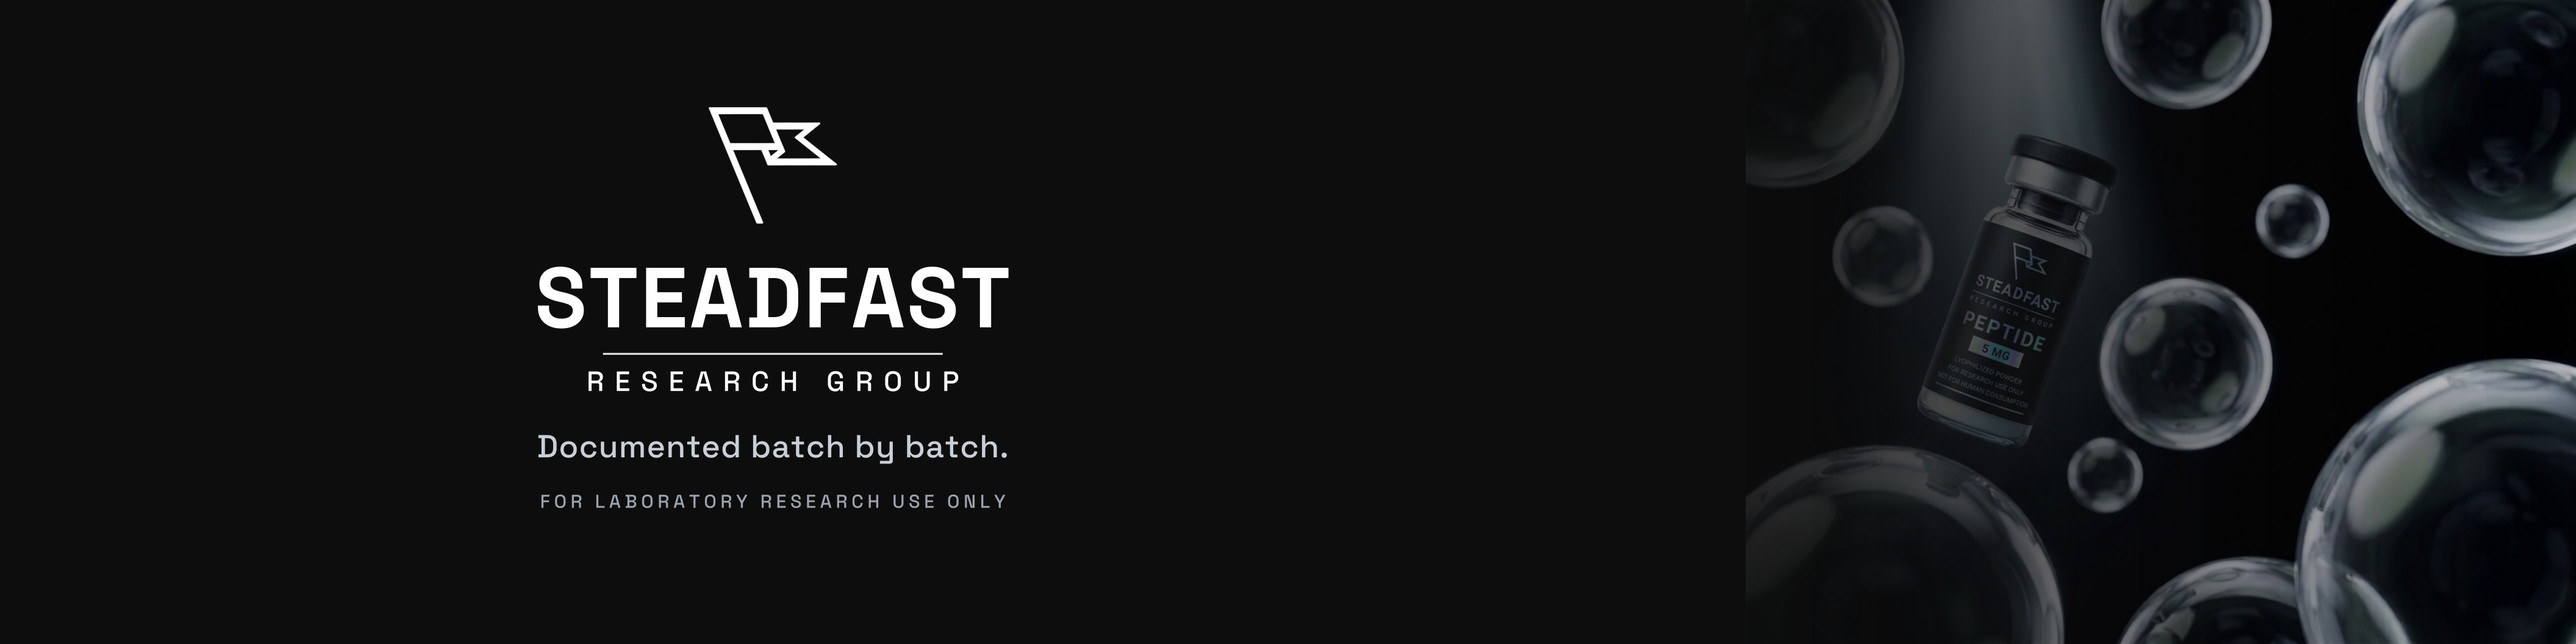
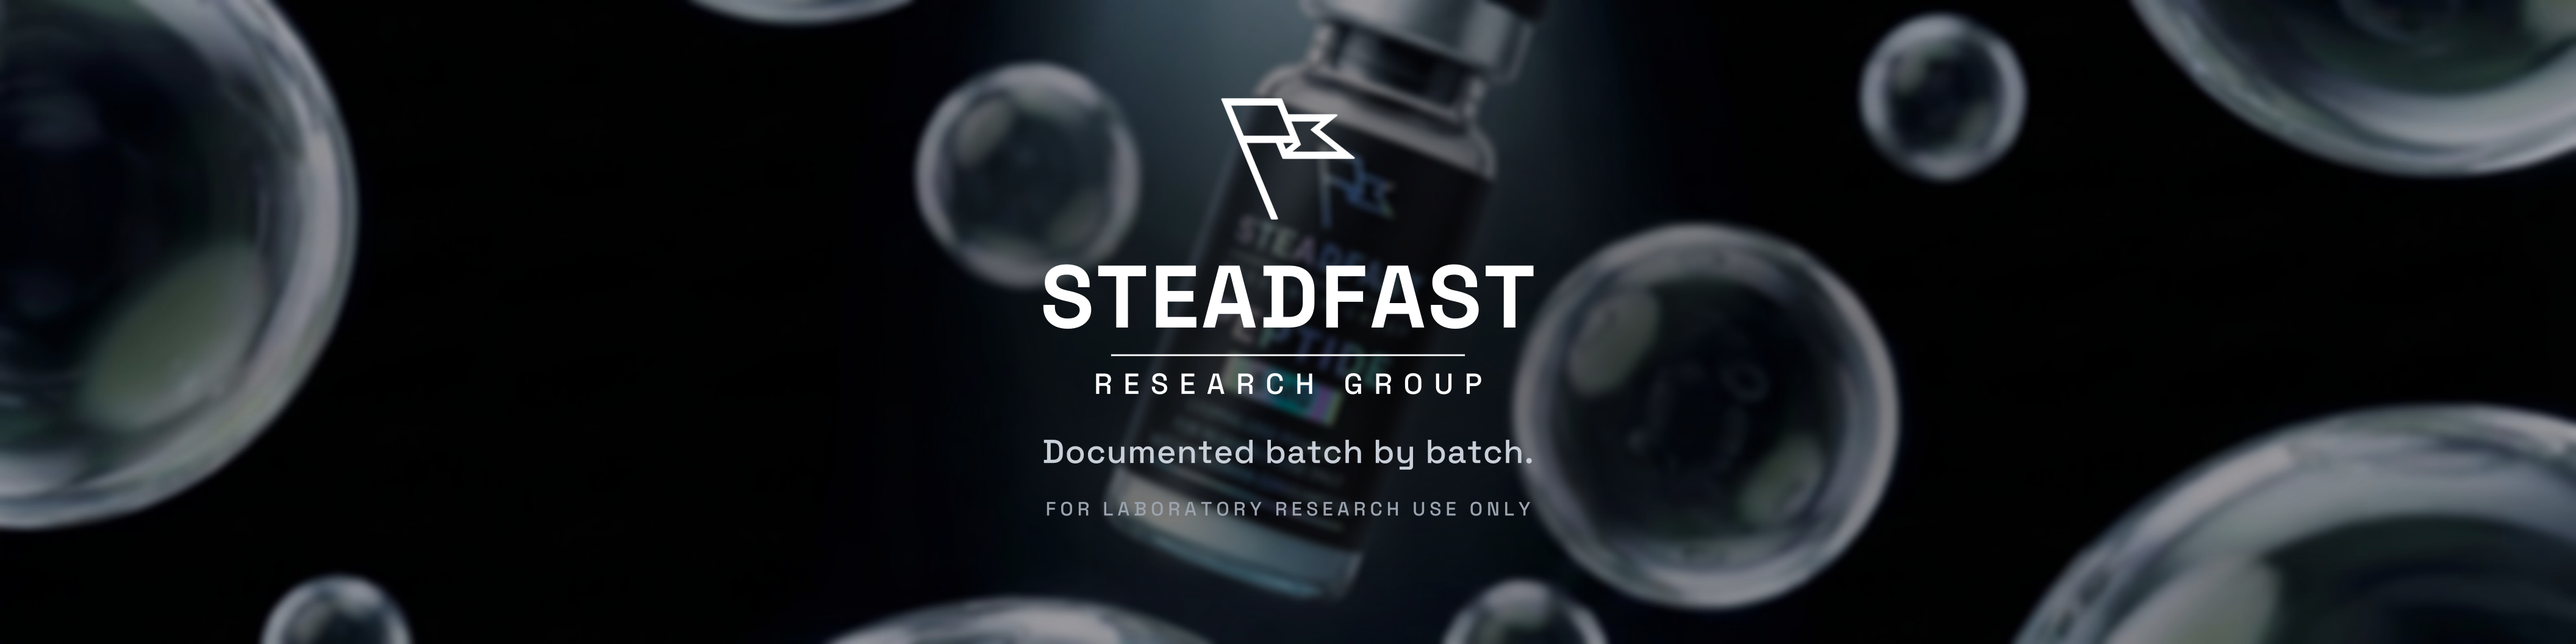
Headers v4: full elaborate photo with soft blur (no hard crop), peptide cutout on black, and type+watermark version

diff --git a/index.html b/index.html
@@ -915,27 +915,27 @@
 
     <h3 class="socsub">Facebook cover &middot; 820&times;312 @2x</h3>
   <div class="socgrid soc3">
-    <div class="soccard"><img src="assets/social/srg-facebook-cover-photo.png" alt="Product photo" loading="lazy" /><div class="scap"><span>Product photo &middot; Blake's pick</span><a href="assets/social/srg-facebook-cover-photo.png" download>PNG</a></div></div>
-    <div class="soccard"><img src="assets/social/srg-facebook-cover-watermark.png" alt="Flag watermark" loading="lazy" /><div class="scap"><span>Flag watermark</span><a href="assets/social/srg-facebook-cover-watermark.png" download>PNG</a></div></div>
-    <div class="soccard"><img src="assets/social/srg-facebook-cover-type.png" alt="Type only" loading="lazy" /><div class="scap"><span>Type only</span><a href="assets/social/srg-facebook-cover-type.png" download>PNG</a></div></div>
+    <div class="soccard"><img src="assets/social/srg-facebook-cover-photo.png" alt="Product photo" loading="lazy" /><div class="scap"><span>Elaborate photo</span><a href="assets/social/srg-facebook-cover-photo.png" download>PNG</a></div></div>
+    <div class="soccard"><img src="assets/social/srg-facebook-cover-watermark.png" alt="Flag watermark" loading="lazy" /><div class="scap"><span>Type + flag watermark</span><a href="assets/social/srg-facebook-cover-watermark.png" download>PNG</a></div></div>
+    <div class="soccard"><img src="assets/social/srg-facebook-cover-cutout.png" alt="Type only" loading="lazy" /><div class="scap"><span>Peptide cutout</span><a href="assets/social/srg-facebook-cover-cutout.png" download>PNG</a></div></div>
   </div>
   <h3 class="socsub">LinkedIn banner &middot; 1584&times;396 @2x</h3>
   <div class="socgrid soc3">
-    <div class="soccard"><img src="assets/social/srg-linkedin-banner-photo.png" alt="Product photo" loading="lazy" /><div class="scap"><span>Product photo &middot; Blake's pick</span><a href="assets/social/srg-linkedin-banner-photo.png" download>PNG</a></div></div>
-    <div class="soccard"><img src="assets/social/srg-linkedin-banner-watermark.png" alt="Flag watermark" loading="lazy" /><div class="scap"><span>Flag watermark</span><a href="assets/social/srg-linkedin-banner-watermark.png" download>PNG</a></div></div>
-    <div class="soccard"><img src="assets/social/srg-linkedin-banner-type.png" alt="Type only" loading="lazy" /><div class="scap"><span>Type only</span><a href="assets/social/srg-linkedin-banner-type.png" download>PNG</a></div></div>
+    <div class="soccard"><img src="assets/social/srg-linkedin-banner-photo.png" alt="Product photo" loading="lazy" /><div class="scap"><span>Elaborate photo</span><a href="assets/social/srg-linkedin-banner-photo.png" download>PNG</a></div></div>
+    <div class="soccard"><img src="assets/social/srg-linkedin-banner-watermark.png" alt="Flag watermark" loading="lazy" /><div class="scap"><span>Type + flag watermark</span><a href="assets/social/srg-linkedin-banner-watermark.png" download>PNG</a></div></div>
+    <div class="soccard"><img src="assets/social/srg-linkedin-banner-cutout.png" alt="Type only" loading="lazy" /><div class="scap"><span>Peptide cutout</span><a href="assets/social/srg-linkedin-banner-cutout.png" download>PNG</a></div></div>
   </div>
   <h3 class="socsub">X header &middot; 1500&times;500 @2x</h3>
   <div class="socgrid soc3">
-    <div class="soccard"><img src="assets/social/srg-x-header-photo.png" alt="Product photo" loading="lazy" /><div class="scap"><span>Product photo &middot; Blake's pick</span><a href="assets/social/srg-x-header-photo.png" download>PNG</a></div></div>
-    <div class="soccard"><img src="assets/social/srg-x-header-watermark.png" alt="Flag watermark" loading="lazy" /><div class="scap"><span>Flag watermark</span><a href="assets/social/srg-x-header-watermark.png" download>PNG</a></div></div>
-    <div class="soccard"><img src="assets/social/srg-x-header-type.png" alt="Type only" loading="lazy" /><div class="scap"><span>Type only</span><a href="assets/social/srg-x-header-type.png" download>PNG</a></div></div>
+    <div class="soccard"><img src="assets/social/srg-x-header-photo.png" alt="Product photo" loading="lazy" /><div class="scap"><span>Elaborate photo</span><a href="assets/social/srg-x-header-photo.png" download>PNG</a></div></div>
+    <div class="soccard"><img src="assets/social/srg-x-header-watermark.png" alt="Flag watermark" loading="lazy" /><div class="scap"><span>Type + flag watermark</span><a href="assets/social/srg-x-header-watermark.png" download>PNG</a></div></div>
+    <div class="soccard"><img src="assets/social/srg-x-header-cutout.png" alt="Type only" loading="lazy" /><div class="scap"><span>Peptide cutout</span><a href="assets/social/srg-x-header-cutout.png" download>PNG</a></div></div>
   </div>
   <h3 class="socsub">YouTube banner &middot; 2560&times;1440 &middot; safe-area centered</h3>
   <div class="socgrid soc3">
-    <div class="soccard"><img src="assets/social/srg-youtube-banner-photo.png" alt="Product photo" loading="lazy" /><div class="scap"><span>Product photo &middot; Blake's pick</span><a href="assets/social/srg-youtube-banner-photo.png" download>PNG</a></div></div>
-    <div class="soccard"><img src="assets/social/srg-youtube-banner-watermark.png" alt="Flag watermark" loading="lazy" /><div class="scap"><span>Flag watermark</span><a href="assets/social/srg-youtube-banner-watermark.png" download>PNG</a></div></div>
-    <div class="soccard"><img src="assets/social/srg-youtube-banner-type.png" alt="Type only" loading="lazy" /><div class="scap"><span>Type only</span><a href="assets/social/srg-youtube-banner-type.png" download>PNG</a></div></div>
+    <div class="soccard"><img src="assets/social/srg-youtube-banner-photo.png" alt="Product photo" loading="lazy" /><div class="scap"><span>Elaborate photo</span><a href="assets/social/srg-youtube-banner-photo.png" download>PNG</a></div></div>
+    <div class="soccard"><img src="assets/social/srg-youtube-banner-watermark.png" alt="Flag watermark" loading="lazy" /><div class="scap"><span>Type + flag watermark</span><a href="assets/social/srg-youtube-banner-watermark.png" download>PNG</a></div></div>
+    <div class="soccard"><img src="assets/social/srg-youtube-banner-cutout.png" alt="Type only" loading="lazy" /><div class="scap"><span>Peptide cutout</span><a href="assets/social/srg-youtube-banner-cutout.png" download>PNG</a></div></div>
   </div>
 </section>
 
